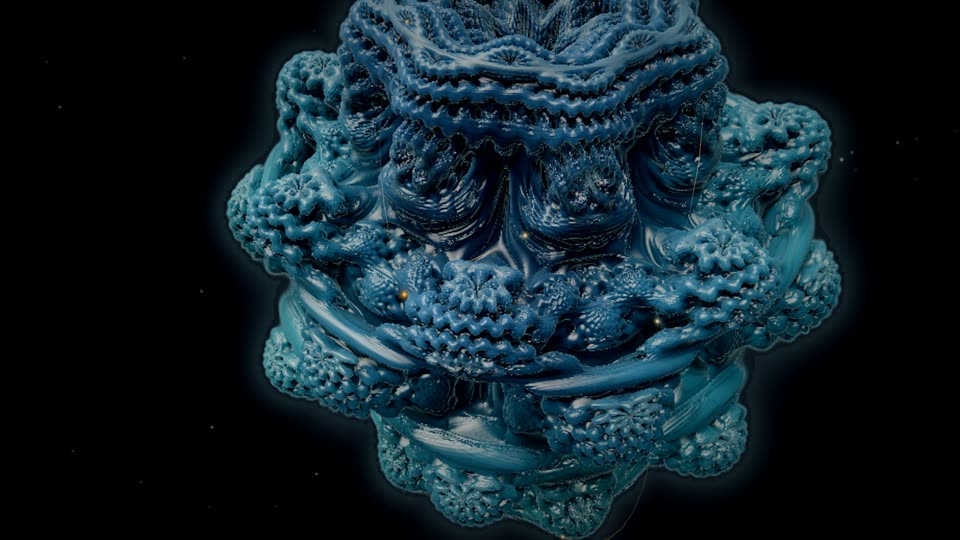
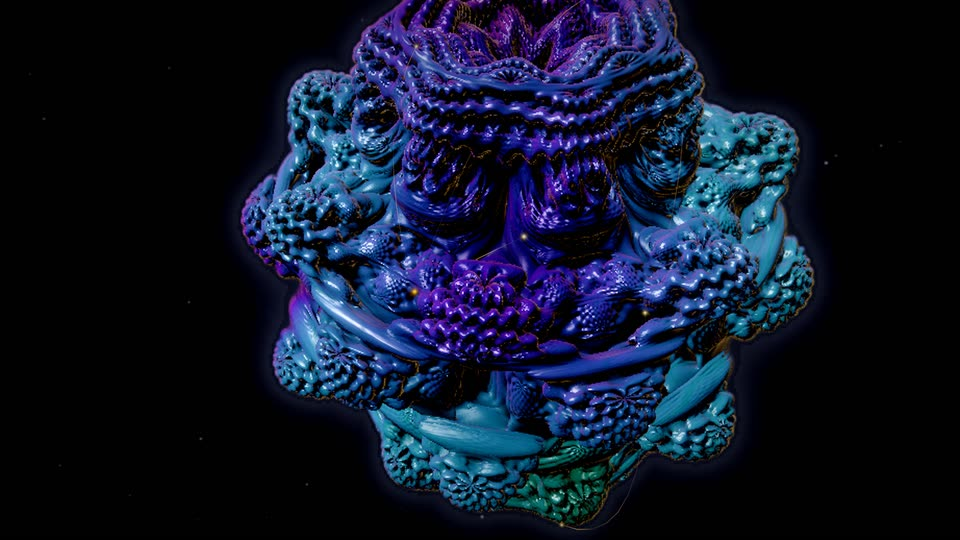
docs(worlds): Fractal Continuum's finish, stills rendered again
The ten stills of docs/worlds/fractal-continuum.md rendered again with the
same lab commands on the AMD iGPU; the page describes the harmony, the
light and materials, the gentler swell, the shadow's cost per quality and
GPU time before and after, and corrects variant 3 (a rose crystal, not a
Mandelbox). CHANGELOG gets an Unreleased section.

diff --git a/docs/worlds/fractal-continuum.md b/docs/worlds/fractal-continuum.md
@@ -9,36 +9,46 @@ the covered region lose coherence; a verified milestone can earn a rare fractal 
 **Status.** This is a preview: a working prototype family (`public/worlds/fractal.js`, `public/worlds/fractal-forms.js`)
 that a project can choose explicitly in the Visual Studio (marked *Preview*) or with the render lab's `--family`. It is
 never chosen automatically, and adding it changed no existing identity (see [Selection and compatibility](#selection-and-compatibility)).
-Nobody has reviewed it artistically yet. Everything below marked *prototype* is implemented; *planned* is not.
+The owner watched it live and found it read as "gum" (one soft purple, even soft light, shapes rounded by the swell, a
+white sugar of sparkle); the finish described here (0.7.x, *Unreleased*) answers that: each region its own hue on the
+identity's harmony, a hard key light with a traced shadow, deep occlusion, glassy ridges and matte depths, a gentler
+swell, rare coloured glints. It has not been reviewed artistically since. Everything below marked *prototype* is
+implemented; *planned* is not.
 
 ![One project, four universes](fractal-continuum-universes.jpg)
 
 *Lumen Recipes (17 files in 6 subsystems at its end) as four identities of the same project: its generated identity, a
-kaleidoscopic crystal (top left), and the variants 1 to 3 of the Visual Studio's regenerate: a copper Mandelbulb, a jade
-Mandelbulb, a rose Mandelbox. Each is a different formula or different parameters, from the identity's own stream. Every
-still on this page: GPU (AMD Radeon iGPU through WSL2 D3D12), rendered at 1920×1080 (the fractal itself at 0.6 of that,
-quality 0, see [Performance](#performance)), shown at 960×540.*
+violet kaleidoscopic crystal (top left), and the variants 1 to 3 of the Visual Studio's regenerate: a copper Mandelbulb,
+a jade Mandelbulb, a rose crystal of the Menger-like kind (a high `fractal.shape`; earlier versions of this page called it
+a Mandelbox, the recipe says `kifs`). Each is a different formula or different parameters, from the identity's own
+stream, and each region takes its own hue on the identity's harmony. Every still on this page: GPU (AMD Radeon iGPU
+through WSL2 D3D12), rendered at 1920×1080 (the fractal itself at 0.6 of that, quality 0, see
+[Performance](#performance)), shown at 960×540.*
 
 | | |
 |---|---|
 | ![A large project](fractal-continuum-excalidraw.jpg) | ![Unfolding with the project](fractal-continuum-unfolding.jpg) |
-| Excalidraw (450 files, 9 subsystems), its generated identity: a twisted Mandelbulb of power 8, the files' 450 sites of light on its subsystems' regions | Lumen over its recording (2 %, 15 %, 40 %, the end): the crystal's recursion unfolds as files and symbols arrive; at 40 % the first verified milestone blooms |
+| Excalidraw (450 files, 9 subsystems), its generated identity: a twisted Mandelbulb of power 8 in sapphire, indigo and teal regions, the files' 450 sites of light on them | Lumen over its recording (2 %, 15 %, 40 %, the end): the crystal's recursion unfolds as files and symbols arrive; at 40 % the first verified milestone blooms |
 | ![An agent's edit](fractal-continuum-agent.jpg) | ![A failing test run](fractal-continuum-failure.jpg) |
 | Claude's first recorded edit (0.5 s on): its signal (rose four-point spark) at the edited site, the surface lit in its colour around it | A failing run, 6 s on, up close: the covered region decoheres (it jumps out of shape 12 times a second), static crackles in the warning colour, the region dims |
 | ![The earned bloom](fractal-continuum-bloom.jpg) | ![A passing run](fractal-continuum-wave.jpg) |
 | The first verified milestone (a recovery), 2 s on: the form twists through its recursion and inflates, a white-gold shell runs over it, a burst of light leaves the surface | A passing run, 3 s on: the coherence wave sweeps the form in the valid colour (this one also earned a milestone 62 s after the first: a local unfolding, not a bloom) |
 | ![A commit](fractal-continuum-commit.jpg) | ![Idle](fractal-continuum-idle.jpg) |
-| A commit that names no files: a warm glow rises from the crevices of the whole form | 90 s after the last event: the form breathing, the key light circling, the camera drifting in toward one region |
+| A commit that names no files: a warm glow rises from the crevices of the whole form | 90 s after the last event: the form breathing, the key light circling (glints where it catches the facets), the camera drifting in toward one region |
 
 ![Tuned toward the reference](fractal-continuum-reference.jpg)
 
 *Lumen tuned toward the owner's reference image (formula Mandelbulb, power 8, no twist, teal surface, `camera.personality`
-pole). The camera here is in the close-up of an event at the end of the recording, not at the pole: an attention
+pole: `--tune '{"fractal.form":"bulb","fractal.power":8,"fractal.twist":0,"palette.primary":"#33828e","camera.personality":"pole"}'
+--at 1`): its regions teal, azure, blue and violet on the arc from the surface's hue away from the gold light, the gold
+on the rims. The camera here is in the close-up of an event at the end of the recording, not at the pole: an attention
 close-up overrides the pole view (see [Known gaps](#known-gaps)).*
 
 *All stills: `qualification/visual/lab.js --dataset lumen --family fractal-continuum --gpu amd --size 1920x1080 --events
---after 2,6 --touch --idle 90` (and `--at`, `--variant`, `--dataset excalidraw`), the passing run and the tuned still
-from the same film path at the recorded intent's time.*
+--after 2,6 --touch --idle 90 --at 1` (and `--at 0.02,0.15,0.4,1`, `--variant 1` to `3`, `--dataset excalidraw`); the
+passing run on the same film path 3 s after the first recorded `validation.passed`; the tuned still as above. In a
+sandboxed shell where ANGLE's GL backend finds no usable X display, the same GPU is reached through `--use-angle=gl-egl`
+with `DISPLAY` and `WAYLAND_DISPLAY` unset (the renderer string still reads D3D12 AMD Radeon).*
 
 ## Mapping: what drives what
 
@@ -49,8 +59,8 @@ as such.
 |---|---|---|
 | The project's traits at generation (`engine/recipe.js` `traitsOf`) | The **universe**: `fractal.form` (Mandelbulb for interface-heavy and hub-centred code, Julia bulb for function-heavy code, Mandelbox for classes, types and coupled subsystems, kaleidoscopic crystal for tested, widely branching code; a seeded share), `fractal.power` (the bulbs' n-fold branching, from the number of subsystems), `fractal.twist` (raised by cross-subsystem coupling), `fractal.shape`, `fractal.julia`, `fractal.detail` (symbols per file) | From the identity's own stream: two projects (or two variants) are two universes |
 | Live code at *t*: `model.modules`, `model.symbols` (`born`, `removed`) | How far the recursion has **unfolded**: 2.5 + 0.95 × detail × log₂(1 + files + symbols / 4) iterations (fractional, blended), each file and symbol eased in over 2.6 s | An empty project is a smooth seed; by the formula Lumen goes from about 4 to 6.8 iterations over its recording, Excalidraw's 450 files reach about 11.4 (the level of detail may draw fewer, see [Determinism](#determinism)) |
-| Subsystem: `model.districts` (creation `order`, `role`) | A **region** of the surface around its own direction (slot *k* of a fixed, seeded sequence whose first slots stand far apart), with its own shade of the surface colour | A region never moves; `role` is named in labels only |
-| A region's live files | The region **swells** outward (up to `geometry.swell`, log-scaled against the largest region) | The radial swell keeps the surface's detail |
+| Subsystem: `model.districts` (creation `order`, `role`) | A **region** of the surface around its own direction (slot *k* of a fixed, seeded sequence whose first slots stand far apart), in its **own hue**: region *k* takes a share of the arc from the surface's hue toward the harmony's far pole (see [Visual grammar](#visual-grammar)), with its own saturation and lightness from its id | A region never moves and keeps its hue; `role` is named in labels only |
+| A region's live files | The region **swells** outward (up to `geometry.swell`, log-scaled against the largest region), the amplitude halved as the recursion unfolds from 3.5 to 7.5 iterations | The radial swell keeps the surface's detail; a gentler one shears it less (an intricate form keeps its structure, a smooth seed may bulge) |
 | File: `model.modules` | A **site of light** on its region's surface: a direction on a golden spiral around the region's (index *j* in creation order), traced to the surface with the JS twin of the estimator | A file never moves on its spiral; its size from its live symbols; fades in at birth, out at removal |
 | File state (`stateAt`): draft, committed, validated, stressed | Site light: pale, the light's colour, the light's colour toward valid, flickering in the warning colour | Stressed also drives decoherence (below) |
 | Dependency: `model.links` (`a` imports `b`) | A faint **thread** of light arcing from the importing file's site to the imported one's (lifted more between regions) | One per pair of sites, at most 480 |
@@ -73,18 +83,36 @@ as such.
   light of sites and events (warm on a cool surface or cool on a warm one, or the surface's own family), `highlight`
   rims and glints, `deep` and `haze` the void (kept dark), `warning` failure (red to magenta, at least 40° of hue away
   from the light: never the light's colour, never gold), `valid` tests.
-- **Surface**: a matte sculpted surface. Occlusion from three taps of the estimator along the normal and the orbit trap;
-  the closest tap also marks ridges (slightly lighter, as the reference's fine relief) and pores (darker). The key light
-  sits above and beside the camera and reads both the fine normal and the lobes' large shape (the normal of the same
-  form with three recursions), and two taps toward the light shade what the lobes hide from it (a soft shadow). A sky
-  fill, a little bounce, a rim on the silhouette, a low sheen. Colour follows the recursion's orbit (traps) between the
-  surface's own colour and its depth colour, and each region's shade.
+- **Harmony** (`palette.scheme`, in `fractal.js`): the far pole is the light's hue for analogous and complementary (the
+  opposite hue when the light stands near the surface's), 150° for split and 120° for triad. Regions take hues on the arc
+  from the surface's hue toward it: region *k* the share `[0, 1, −1, ½, −½, ¾, ¼, −¾, 0.9, −¼]` of the arc (the first
+  region the surface's own hue; a negative share toward the other side, 0.6 of the span for analogous and complementary,
+  the full span to the other pole for split and triad), ±4° from its id, the span 28–40° (analogous), 100°
+  (complementary, split) or 110° (triad). An arc never crosses the band between amber and green (48–100°, where a dark
+  yellow reads as olive): it turns the other way round the wheel, or stops 44° short of the band. Neighbouring regions
+  meet in a narrow seam, in the hue between theirs. The far pole itself stays the light's: rims, glints, sites, events.
+  Lumen (violet, gold light) gets violet, crimson, magenta, rose, indigo and azure regions with gold rims; a teal surface
+  with a gold light turns toward azure, blue and violet; a jade one toward teal.
+- **Surface** (a jewel, not a clay): colour from the region's hue turned by the recursion's orbit (traps): the depths
+  darker, denser and turned toward the palette's depth side, the ridges lighter and turned along the arc toward the far
+  pole, grazing angles turned further (iridescence, up to 38°). Occlusion from three taps of the estimator along the
+  normal and the orbit trap, deep enough that crevices go almost black; the second tap (a few pixels out) marks ridges
+  and pores. A hard key from the side and above, a little toward the camera (Lambert, no wrap), with a soft shadow
+  traced toward it (sphere tracing, the penumbra from the closest approach; 6 steps at quality 0, 4 at quality 1, two
+  taps at 2 and 3); a dim fill that the crevices lose and that takes the surface's colour again where less light reaches;
+  a back light in the far pole's hue on the silhouette. Materials: exposed surfaces and orbit-trap ridges are glassy and
+  metallic (a sharp highlight tinted by their own colour, a soft reflection at grazing angles), the depths matte. The
+  normal is taken over two pixels and the finest recursion drawn stays above two pixels, so the relief does not turn into
+  a white sugar of sub-pixel highlights.
+- **Glints** (ambient): rare points of light where a glassy facet catches the key, in the region's colour, twinkling on
+  the beat, more of them in a region that holds more files.
 - **Sites**: jewel-like points of light with a soft pool around them (additive); each tests its own visibility against
   the fractal's depth with a small tolerance, so its light spills over the relief around it.
 - **Atmosphere** (never code): the void with a faint haze behind the form, a soft halo hugging the silhouette, a little
   dust.
-- **Grade**: AgX, bloom from a high threshold (only light blooms, not the surface), a faint streak; strain desaturates
-  and cools, a bloom lifts exposure. The recipe's finish (Cinematic by default) applies on top.
+- **Grade**: AgX, a little more contrast and saturation than the other worlds (jewel tones), bloom from a high threshold
+  (only light blooms, not the surface), a faint streak; strain desaturates and cools, a bloom lifts exposure. The
+  recipe's finish (Cinematic by default) applies on top.
 
 ## Layout
 
@@ -100,8 +128,10 @@ Pure functions of the recipe, the model and the time (`fractal-forms.js`, no THR
    project's size at generation) × √j; its radius traced from outside along that direction at the drawn recursion,
    cached per file and integer recursion (the fractional level blends the two neighbours), scaled exactly by the
    region's swell. A ray that slips through the form tries six turned directions.
-4. **Swell and tint**: an octahedral table (128²) of each direction's swell and region shade, rewritten only when the
-   regions' weights change; the shader looks it up per ray (every few steps), the JS evaluates the same kernels exactly.
+4. **Swell and colour**: an octahedral table (128²) of each direction's swell and region colour, rewritten only when the
+   regions' weights or the swell amplitude change (the colours only when the regions themselves do); the shader looks
+   it up per ray (every few steps), the JS evaluates the same kernels exactly (sites sit on the swollen surface at the
+   same amplitude).
 5. **Framing**: the whole form fills about 80 % of the frame height; a recorded event the director gives attention to
    is seen up close (the camera turns to face the event's site first, then comes in until about the form's radius
    fills the frame); an agent's edit in a medium close-up; the full bloom pulls back 25 %.
@@ -109,8 +139,8 @@ Pure functions of the recipe, the model and the time (`fractal-forms.js`, no THR
 ## Idle behaviour
 
 With no input for 20 minutes or 20 hours the form stays alive, never like a screensaver: it breathes on 2, 4 or 8 bars
-(`motion.breath`, a 0.6 % scale), the key light circles slowly (`motion.light`), sparse glints on the ridges twinkle and
-swell on the beat (`motion.shimmer`), each site pulses spontaneously on the **beat grid** with a seeded probability per
+(`motion.breath`, a 0.6 % scale), the key light circles slowly (`motion.light`), rare glints in the regions' colours
+twinkle where a facet catches it and swell on the beat (`motion.shimmer`), each site pulses spontaneously on the **beat grid** with a seeded probability per
 beat (rarer per site in a large project), its pulse running down its real threads, and the camera orbits, glides or
 turns around the pole (`camera.personality`). Every 190 s, while nothing happens, the camera drifts in toward the next
 region and back out. Nothing grows and nothing is labelled while idle.
@@ -181,22 +211,34 @@ swell table, the layout) hold pure functions of their keys. After a seek, transi
 inner light comes back from the director's record. Two things also follow the camera, as the host's camera rig follows
 the frames: the level of detail (how many recursions the pixels can hold at the camera's distance) and the fractal's
 share of the resolution (smaller when it fills the frame). Films seek and warm up before each still, as for every world.
+The finish keeps this: region hues come from the region's id and creation order, the swell amplitude from the unfolding
+at *t*, and no shading term reads the wall clock. After it, `visual/identity.qual.js --gpu amd` on Lumen, Excalidraw
+and Self passed 15/15 (the same frame bit for bit after a receiver restart and after a rebuild from the journal alone).
 
 ## Performance
 
 The fractal renders into its own targets at a share of the scene's resolution (0.6 at quality 0), in three passes drawn
 right before its composite (inside the scene's frame, so the host's GPU timer counts them): a coarse cone march at half
 that resolution (each cone of four pixels' radius stops where it touches the form, or proves the pixels around it miss
-it), the march from there into a float target (over-relaxed sphere tracing), and the shading. The composite upsamples
+it), the march from there into a float target (over-relaxed sphere tracing), and the shading (with the key light's
+shadow trace: about 1–1.3 ms of a frame at 6 steps, 2–2.5 ms at 10, measured on Lumen; paid for by dropping the old
+large-shape normal and by the two-pixel detail threshold). The composite upsamples
 it into the scene (Catmull-Rom on the colour, bilinear on the coverage) and writes its depth, so sites, threads and
 signals hide behind the form. When the form fills the frame the share drops to as little as 0.8 of the quality's.
 
-| GPU time per frame (lab `gpuMs`; AMD Radeon iGPU, WSL2 D3D12; 1920×1080, quality 0) | Range |
-|---|---|
-| Lumen, the brief's 13 stills (events at 2 s and 6 s, touches, idle 90 s) and 4 moments of its recording | 15.1–20.3 ms |
-| Excalidraw (450 sites), the end and idle 90 s | 19.3–20.9 ms |
-| Self (92 files), three moments; the highest is a close-up filling the frame | 16.3–25.1 ms |
-| Lumen, variants 1 to 3 at the end (two bulbs, a box; close-ups) | 19.2–22.4 ms |
+| GPU time per frame (lab `gpuMs`; AMD Radeon iGPU, WSL2 D3D12; 1920×1080, quality 0), the same stills before and after the finish | Before | After |
+|---|---|---|
+| Lumen (crystal), 14 stills: events at 2 s and 6 s, touch, idle 90 s, the end | 15.5–20.5 ms (mean 18.0) | 15.6–19.9 ms (mean 17.6) |
+| Lumen variant 3 (rose crystal), the same 14 | 17.2–23.6 ms (mean 18.6) | 14.8–18.9 ms (mean 17.1) |
+| Excalidraw (bulb, 450 sites), the end and idle 90 s | 18.7–19.0 ms | 17.6–18.4 ms |
+| Self (bulb, 92 files), 6 stills; the highest a close-up filling the frame | 17.1–24.1 ms (mean 19.3) | 16.9–22.0 ms (mean 18.9) |
+| Self tuned to a Mandelbox (`fractal.form` box), 6 stills; the highest the end, a close-up | 17.5–32.1 ms (mean 22.2) | 19.4–32.7 ms (mean 23.0) |
+| Lumen, variants 1 and 2 at the end (bulbs, close-ups), after only | | 21.0, 22.0 ms |
+
+Each value is the host's moving average after the lab's 4 s of warm-up (one reading per still; run-to-run noise on this
+machine is about ±1 ms). Held at one moment for 60 more frames: Lumen's end 18.7 → 18.9 ms, its failure close-up
+21.3 → 21.2 ms, idle 17.2 → 17.0 ms, Self's close-up 24.2 → 23.7 ms. The real player at fixed qualities (Lumen at 8×,
+one reading): 17.8 → 18.1 ms at 0, 13.9 → 13.3 at 1, 7.3 → 6.7 at 2, 3.8 → 3.5 at 3.
 
 SwiftShader (no `--gpu`, 960×540): the world compiles and draws (lab still, no GPU timer there). CPU: lab `updateMs`
 0.2–1.1 ms on Lumen, 1.4–2.2 ms on Excalidraw. Draw calls in the lab: 8–9.
@@ -208,15 +250,15 @@ passes, 44–61 ms. The share costs sharpness: up close the surface is visibly s
 
 | Quality | What changes |
 |---|---|
-| 0 | MSAA 4× (host), share 0.6, three occlusion taps, all recursions the pixels can hold |
-| 1 | No MSAA (host), share 0.54, two taps, at most 12 recursions |
-| 2 | 75 % resolution (host), share 0.5, two taps, at most 10 recursions; less dust |
-| 3 | 55 % resolution (host), share 0.45, one tap, at most 8.5 recursions, no glints; less dust |
+| 0 | MSAA 4× (host), share 0.6, three occlusion taps, a 6-step shadow trace, all recursions the pixels can hold |
+| 1 | No MSAA (host), share 0.54, two taps, a 4-step shadow trace, at most 12 recursions |
+| 2 | 75 % resolution (host), share 0.5, two taps, two shadow taps, at most 10 recursions; less dust |
+| 3 | 55 % resolution (host), share 0.45, one tap, two shadow taps, at most 8.5 recursions, no glints; less dust |
 
-Films always render at quality 0. Live playback at Auto (1920×1080, AMD iGPU): 53.9 fps, frame time p95 33.3 ms,
-47.7 fps in close-ups, 17.4 ms GPU per frame, Auto at the top level; the OBS overlay page the same
-([QUALIFICATION.md](../QUALIFICATION.md#preview-worlds-acceptance-films-and-live-measurements-pr-28)). Not yet
-measured: OBS on a GPU, long soak.
+Films always render at quality 0. Live playback at Auto (1920×1080, AMD iGPU), before the finish: 53.9 fps, frame time
+p95 33.3 ms, 47.7 fps in close-ups, 17.4 ms GPU per frame, Auto at the top level; the OBS overlay page the same
+([QUALIFICATION.md](../QUALIFICATION.md#preview-worlds-acceptance-films-and-live-measurements-pr-28)). Not measured
+again after the finish (only the fixed-quality readings above). Not yet measured: OBS on a GPU, long soak.
 
 ## Selection and compatibility
 
@@ -235,7 +277,12 @@ measured: OBS on a GPU, long soak.
 ## Known gaps
 
 - **Sharpness**: the fractal is drawn at 0.6 of the resolution (0.48 when it fills the frame) and upsampled; the finest
-  relief is softer than a full-resolution render, and the crystal's sharp vertices still sparkle at pixel scale.
+  relief is softer than a full-resolution render. The crystal's small facets still glitter where the key's highlight
+  falls on them (tinted by their region, no longer a white coat over the whole form).
+- **Region hues on screen**: a region's hue is fixed, but the camera usually sees two or three regions; an identity
+  whose harmony is narrow (analogous) stays within about 40° of its surface's hue by design.
+- **A Mandelbox late in a large project** is the costliest form (32 ms in Self's end close-up, before and after the
+  finish); no default identity of the datasets tried draws one.
 - **The pole view** (`camera.personality` pole, the reference's pose) gives way to event close-ups and the idle drift,
   which turn the camera toward their region.
 - **Sites on very rough surfaces** can be hidden by the relief around them (a visibility test with a small tolerance);

diff --git a/CHANGELOG.md b/CHANGELOG.md
@@ -1,5 +1,22 @@
 # Changelog
 
+## Unreleased
+
+- **Fractal Continuum (preview), a precious finish instead of "gum":** the owner found the preview read as one soft
+  purple, evenly lit, rounded by the swell and coated in white sparkle. Each subsystem's region now takes its own hue on
+  the identity's harmony (`palette.scheme`: an arc from the surface's hue toward the light's hue, or 150°/120° for split
+  and triad, never through the olive band between amber and green), turned darker toward the depth colour in the
+  crevices, lighter along the arc on the ridges and further at grazing angles. The light is a hard key from the side
+  with a soft shadow traced toward it (6 steps at quality 0, 4 at quality 1, two taps at 2 and 3), occlusion deep enough
+  to blacken the crevices, a dim fill that takes the surface's colour, a back light in the light's hue on the rims;
+  exposed surfaces and orbit-trap ridges are glassy and metallic, the depths matte. The swell's amplitude halves as the
+  recursion unfolds (it no longer shears the fine structure), normals are taken over two pixels and the finest
+  recursion drawn stays above two pixels (no sub-pixel sugar), and glints are rare, coloured and denser where a region
+  holds more files. Every behaviour, the recipes and their pinned outputs are unchanged; GPU time per frame at
+  1920×1080 on the AMD iGPU stays where it was (Lumen's 14 lab stills 15.6–19.9 ms after, 15.5–20.5 ms before). Stills
+  and numbers: `docs/worlds/fractal-continuum.md`; `tests/fractal.test.js` pins the region hues, the swell and the
+  shadow per quality.
+
 ## 0.7.2 — 2026-10-29
 
 Product 0.7.2, for use on your own machine; not stable. Interpretation **9** (8 in 0.7.1): on its first start the

diff --git a/docs/WORLDS.md b/docs/WORLDS.md
@@ -193,7 +193,8 @@ life yet; adding it changed no existing identity. Design brief, stills and what 
 An evolving 3D fractal universe: one raymarched, distance-estimated fractal whose formula and parameters (a Mandelbulb,
 a Julia bulb, a Mandelbox or a kaleidoscopic crystal, its branching, twist and shape) come from the code's character and
 the identity's own stream, so projects become different universes, not only different colours. Development unfolds its
-recursion; subsystems are regions of its surface (swelling with their files), files are sites of light on it,
+recursion; subsystems are regions of its surface, each in its own hue on the identity's harmony (swelling with
+their files), lit hard from the side like a cut stone, files are sites of light on it,
 dependencies faint threads between them. Agents ride to the sites they work on as signals in their provider's colour and
 shape and ripple the surface when they edit; tests send a coherent wave of light, failures make the covered region
 decohere in the warning colour, recovery restores coherence, a commit glows, and a verified milestone can earn a rare
